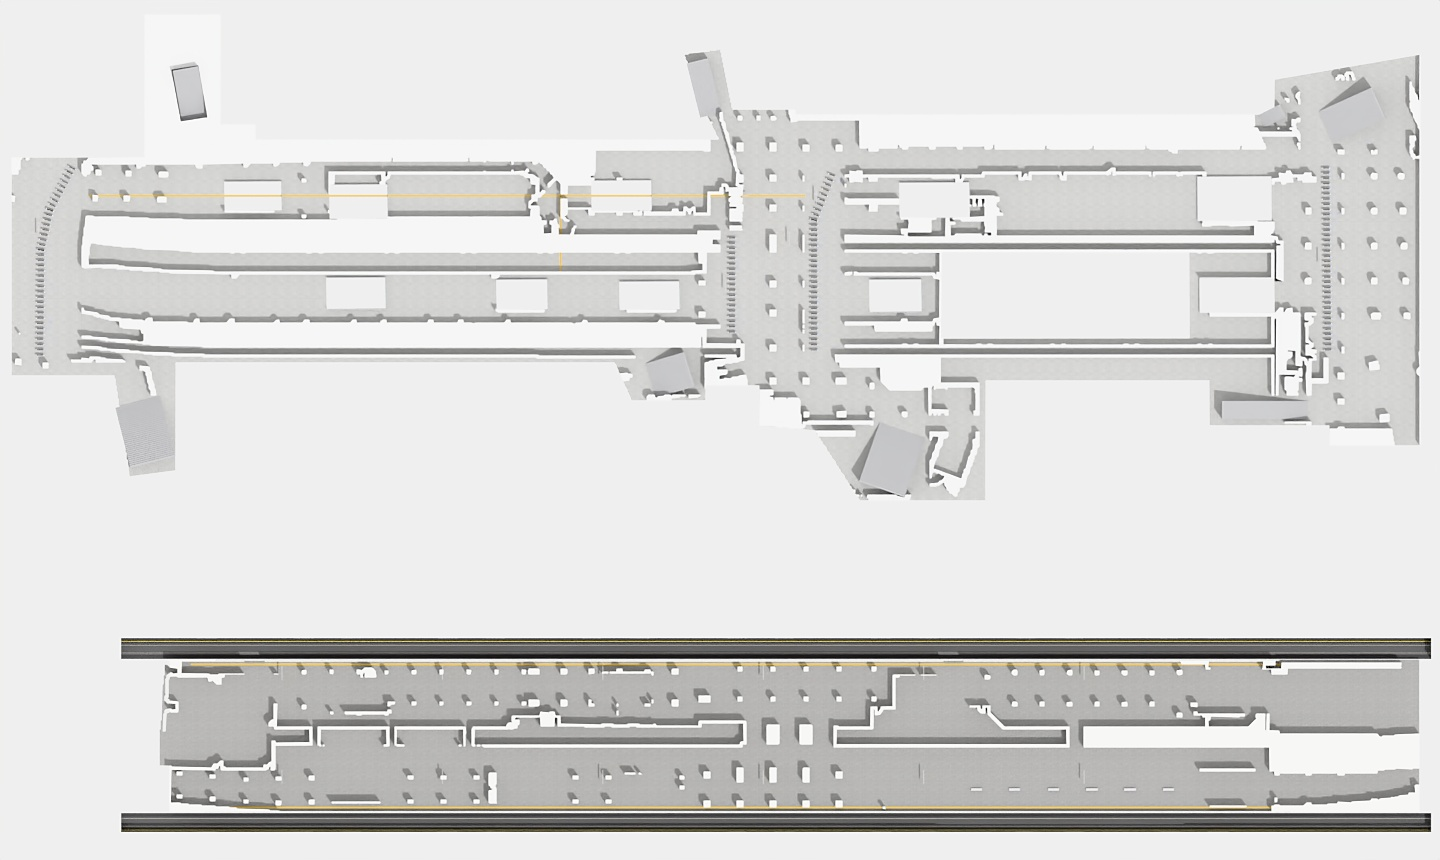
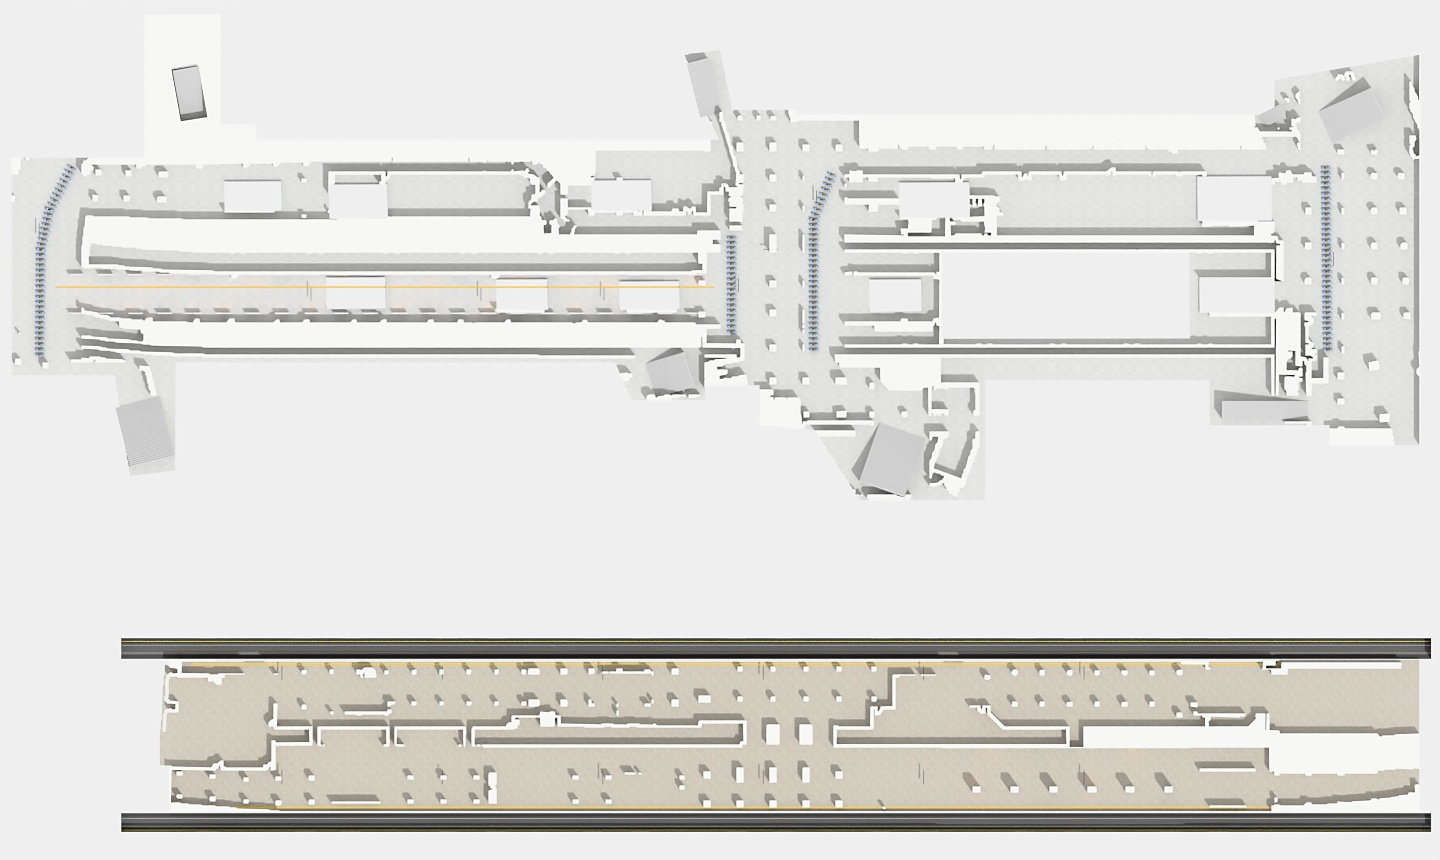
Umeda: final concourse and top renders; fix mirrored facade ads and squashed column ads
Claude-Session: https://claude.ai/code/session_01Up345TfCpf9UXXDhGeCGkp

diff --git a/scripts/umeda/umeda_gfx.py b/scripts/umeda/umeda_gfx.py
@@ -161,6 +161,43 @@ def ad_panel(kind):
     return add_print_texture(im, 10 + kind, 2.0)
 
 
+def ad_portrait(kind):
+    """Upright versions of the three ads for the column lightboxes (5:6)."""
+    W, H = 1000, 1200
+    if kind == 0:
+        im = grad(W, H, (250, 120, 60), (250, 210, 120))
+        d = ImageDraw.Draw(im)
+        d.ellipse([430, 560, 930, 1060], fill=(255, 240, 200))
+        d.rounded_rectangle([580, 600, 780, 1060], 40, fill=(255, 255, 255))
+        d.rounded_rectangle([600, 660, 760, 1040], 30, fill=(250, 150, 60))
+        text(d, (70, 130), "夏の果実、", F("maruK", 110), (255, 255, 255))
+        text(d, (70, 280), "はじける", F("maruK", 110), (255, 255, 255))
+        text(d, (70, 430), "ソーダ。", F("maruK", 110), (255, 255, 255))
+        text(d, (70, 1110), "期間限定", F("sansB", 54), (120, 40, 10))
+    elif kind == 1:
+        im = grad(W, H, (20, 40, 70), (40, 90, 140))
+        d = ImageDraw.Draw(im)
+        for i in range(8):
+            x = 120 + i * 100
+            d.rectangle([x, 1150 - (i * 53) % 300 - 200, x + 78, 1150], fill=(15, 25, 45))
+        text(d, (70, 140), "はじめての", F("sansB", 110), (255, 255, 255))
+        text(d, (70, 290), "英会話、", F("sansB", 110), (255, 255, 255))
+        text(d, (70, 440), "駅前で。", F("sansB", 110), (255, 255, 255))
+        d.rounded_rectangle([70, 620, 930, 740], 20, fill=(255, 205, 0))
+        text(d, (500, 680), "無料体験レッスン受付中", F("sansB", 62), (20, 30, 50), "mm")
+    else:
+        im = Image.new("RGB", (W, H), (245, 243, 238))
+        d = ImageDraw.Draw(im)
+        d.rectangle([0, 620, W, H], fill=(40, 70, 60))
+        for k in range(6):
+            r = 230 - k * 38
+            d.ellipse([500 - r, 910 - r, 500 + r, 910 + r], outline=(200, 220, 200), width=6)
+        text(d, (80, 140), "暮らしに、", F("serifB", 120), (40, 60, 50))
+        text(d, (80, 300), "緑をひとつ。", F("serifB", 120), (40, 60, 50))
+        text(d, (85, 500), "インテリアグリーンフェア 開催中", F("sansM", 46), (80, 90, 80))
+    return add_print_texture(im, 20 + kind, 2.0)
+
+
 def build_all():
     os.makedirs(OUT, exist_ok=True)
     items = {
@@ -176,6 +213,7 @@ def build_all():
         "plat_sign": platform_sign(),
         "led_vision": led_vision(),
         "ad0": ad_panel(0), "ad1": ad_panel(1), "ad2": ad_panel(2),
+        "adp0": ad_portrait(0), "adp1": ad_portrait(1), "adp2": ad_portrait(2),
     }
     paths = {}
     for k, im in items.items():

diff --git a/scripts/umeda/build_umeda.py b/scripts/umeda/build_umeda.py
@@ -231,7 +231,7 @@ def materials():
     gfx = UG.build_all()
     for k in ("name_board", "track1", "track2", "exit_sign", "gate_nw", "gate_ne", "gate_n", "gate_s", "exit_b1", "plat_sign"):
         M[k] = B.printed(k, gfx[k], rough=0.3, coat=0.0, emission=1.2)
-    for k in ("ad0", "ad1", "ad2"):
+    for k in ("ad0", "ad1", "ad2", "adp0", "adp1", "adp2"):
         M[k] = B.printed(k, gfx[k], rough=0.3, coat=0.0, emission=1.6)
     M["led_vision"] = B.printed("led_vision", gfx["led_vision"], rough=0.4, coat=0.0, emission=4.0)
     return M
@@ -356,9 +356,10 @@ def build_b2(M):
             r = np.array(poly[0])
             (cx0, cy0), (cx1, cy1) = r.min(0), r.max(0)
             for yy, right, nm in ((cy0 - 0.015, (1, 0, 0), "s"), (cy1 + 0.015, (-1, 0, 0), "n")):
-                w = (cx1 - cx0) - 0.1
+                w = min((cx1 - cx0) - 0.1, 1.5)
                 if w > 0.4:
-                    B.image_quad(f"vcad_{i}_{nm}", ((cx0 + cx1) / 2, yy, Z_B2 + 1.65), right, (0, 0, 1), w, 1.7, M[f"ad{i % 3}"])
+                    # portrait artwork (5:6) so the ad keeps its proportions
+                    B.image_quad(f"vcad_{i}_{nm}", ((cx0 + cx1) / 2, yy, Z_B2 + 1.65), right, (0, 0, 1), w, w * 1.2, M[f"adp{i % 3}"])
             for ob in list(bpy.context.scene.collection.objects):
                 if ob.name.startswith("vcad_"):
                     put(ob, c)
@@ -555,7 +556,7 @@ def build_central_wall_face(M):
         # ad lightbox between arches
         xa = x + 4.5
         if xa < vx1 - 2.5:
-            B.image_quad(f"cad_{k}", (xa, y - 0.04, Z_B2 + 1.6), (-1, 0, 0), (0, 0, 1), 2.6, 1.45, M[f"ad{k % 3}"])
+            B.image_quad(f"cad_{k}", (xa, y - 0.04, Z_B2 + 1.6), (1, 0, 0), (0, 0, 1), 2.6, 1.45, M[f"ad{k % 3}"])
             bx(f"cadf_{k}", (xa - 1.36, y - 0.035, Z_B2 + 0.83), (xa + 1.36, y, Z_B2 + 2.37), M["steel"], "B2")
         k += 1
     for ob in list(bpy.context.scene.collection.objects):

diff --git a/README.md b/README.md
@@ -76,7 +76,7 @@ cd scripts/umeda
 python3 build_umeda.py --view platform  --out ../../render/umeda_platform.exr  --width 1920 --samples 160 --noise 0.02
 python3 build_umeda.py --view concourse --out ../../render/umeda_concourse.exr --width 1920 --samples 128 --noise 0.02
 python3 build_umeda.py --view overview  --out ../../render/umeda_overview.exr  --width 1920 --samples 96 --noise 0.02
-python3 build_umeda.py --view top       --out ../../render/umeda_top.exr       --samples 48
+python3 build_umeda.py --view top       --out ../../render/umeda_top.exr       --width 1440 --samples 48
 # 構図の検討用：低解像度で複数のカメラ位置を一度に描画（x,y,z,上下角,方位角,焦点距離）
 python3 build_umeda.py --view platform --width 400 --samples 8 "--multi=40,-9.8,-4.2,13,-76,15;44,-2.5,-4.2,14,-100,14"
 ```
